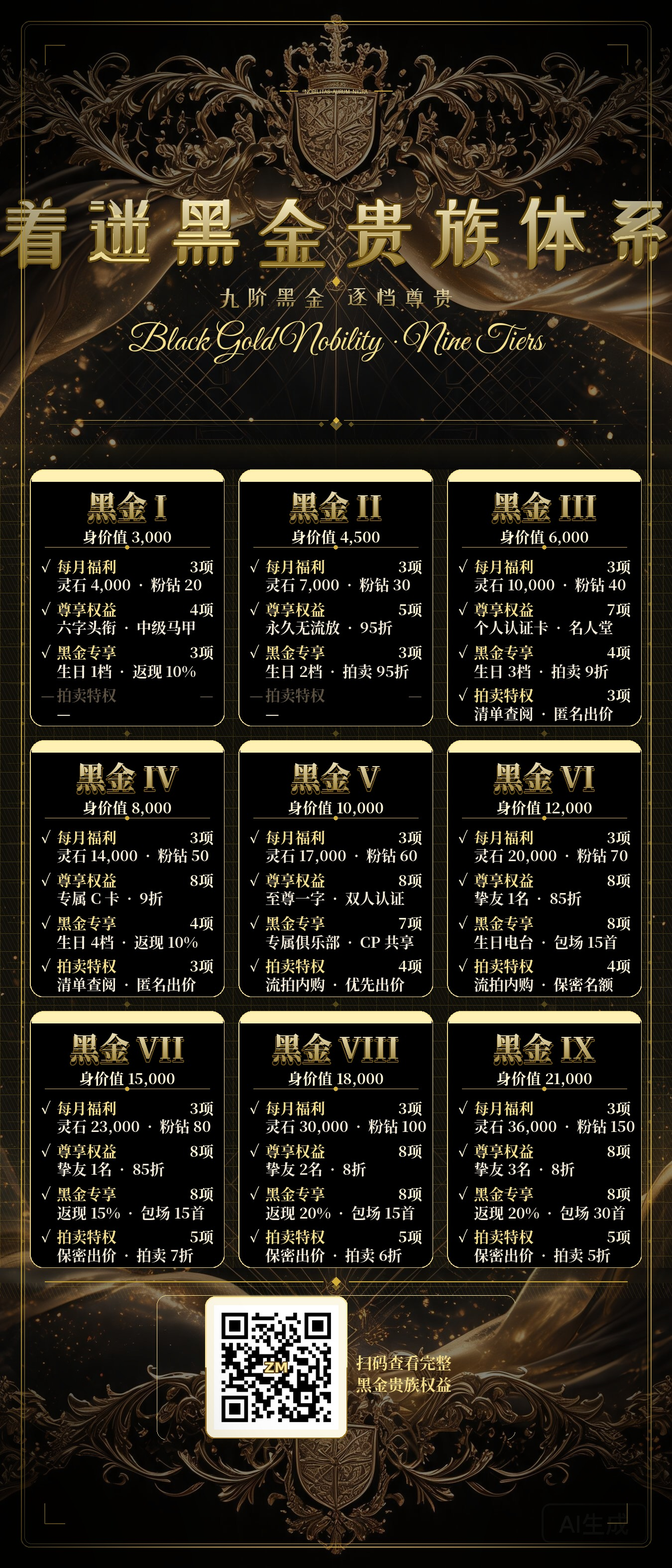
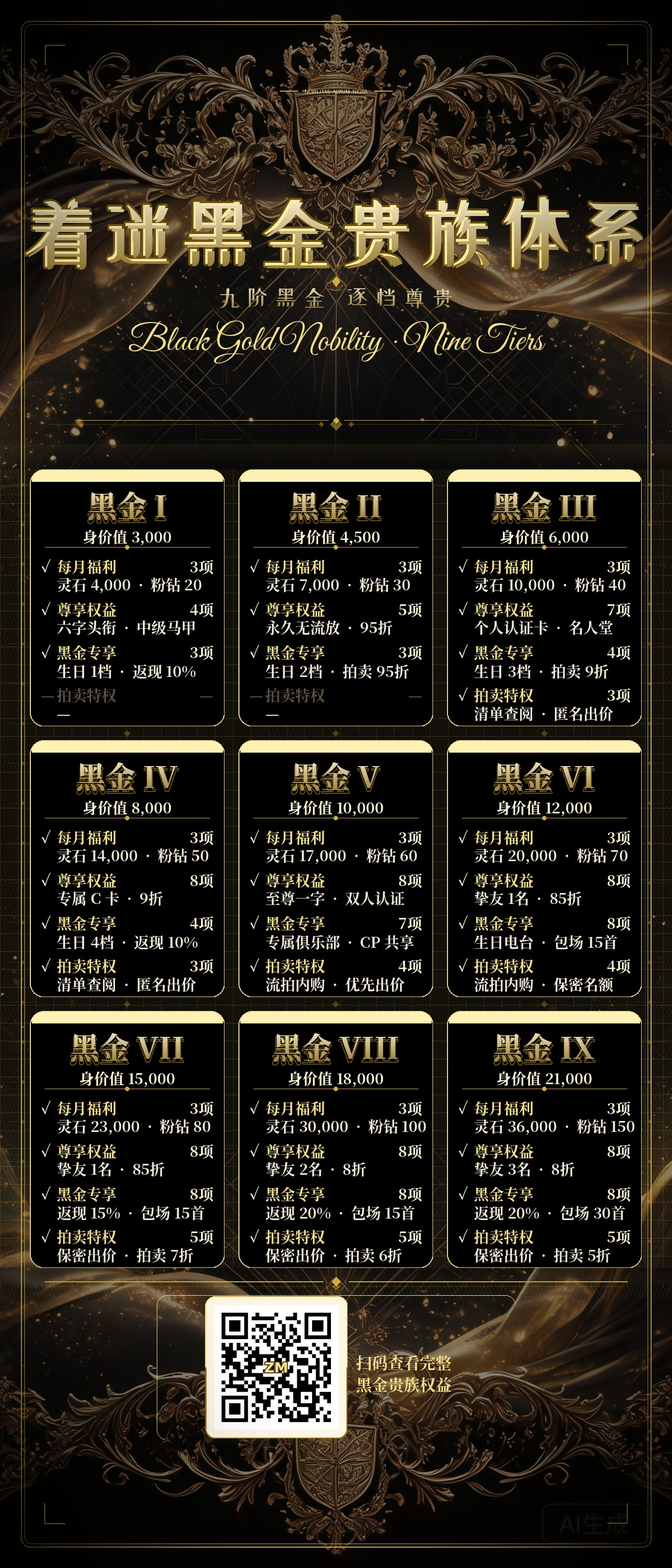
fix: 大标题从逐字绘制改为整体一次绘制，统一字体效果

Changed region(s): [[0.0, 0.1244, 0.9956, 0.1867]]

diff --git a/make_poster.py b/make_poster.py
@@ -122,30 +122,21 @@ draw.line([(CX-ew//2-50,ey_y+eh//2),(CX-ew//2-14,ey_y+eh//2)],fill=(212,175,55,2
 draw.line([(CX+ew//2+14,ey_y+eh//2),(CX+ew//2+50,ey_y+eh//2)],fill=(212,175,55,200),width=2)
 
 title='着迷黑金贵族体系'
-tf=ART(156,'xiaowei')   # 站酷小薇艺术字体（加大）
+tf=ART(156,'xiaowei')   # 站酷小薇艺术字体
 ty=ey_y+eh+200           # 再下移两个行高位置
-SPACING=14
-title_w=sum(tsize(ch,tf)[0] for ch in title)+SPACING*(len(title)-1)
-tx0=CX-title_w//2
-# 标题金色光晕
+
+# 标题金色光晕（整体绘制）
 glow=Image.new('RGBA',(W,460),(0,0,0,0))
 gd=ImageDraw.Draw(glow)
-gx=tx0
-for ch in title:
-    cw,_=tsize(ch,tf)
-    gd.text((gx,230-ty),ch,font=tf,fill=(212,175,55,140),anchor='la')
-    gx+=cw+SPACING
+tw,th=tsize(title,tf)
+gd.text((CX-tw//2,230-ty),title,font=tf,fill=(212,175,55,140),anchor='la')
 glow=glow.filter(ImageFilter.GaussianBlur(28))
 canvas.alpha_composite(glow,(0,ty-230))
-# 逐字绘制：投影 + 金色描边 + 金色渐变填充
-gx=tx0
-for ch in title:
-    cw,chh=tsize(ch,tf)
-    ccx=gx+cw//2
-    draw.text((ccx+4,ty+4),ch,font=tf,fill=(0,0,0,175),anchor='ma')
-    draw.text((ccx,ty),ch,font=tf,fill=(255,238,168,0),anchor='ma',stroke_width=4,stroke_fill=(110,82,18,235))
-    gold_text(ccx,ty,ch,tf,'ma')
-    gx+=cw+SPACING
+
+# 整体一次绘制：投影 + 金色描边 + 金色渐变填充（统一效果）
+draw.text((CX+4,ty+4),title,font=tf,fill=(0,0,0,175),anchor='ma')
+draw.text((CX,ty),title,font=tf,fill=(255,238,168,0),anchor='ma',stroke_width=4,stroke_fill=(110,82,18,235))
+gold_text(CX,ty,title,tf,'ma')
 
 sub_left='九阶黑金'
 sub_right='逐档尊贵'
